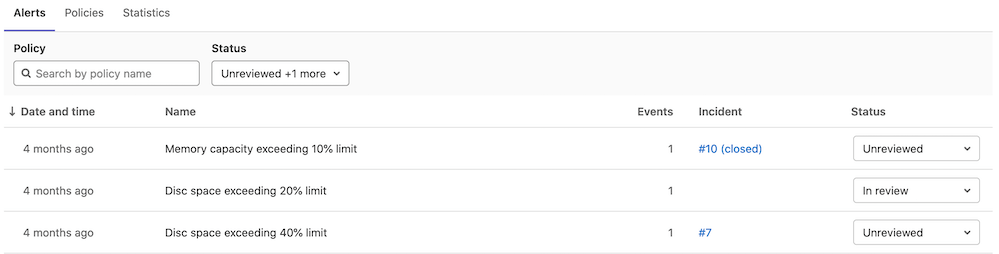
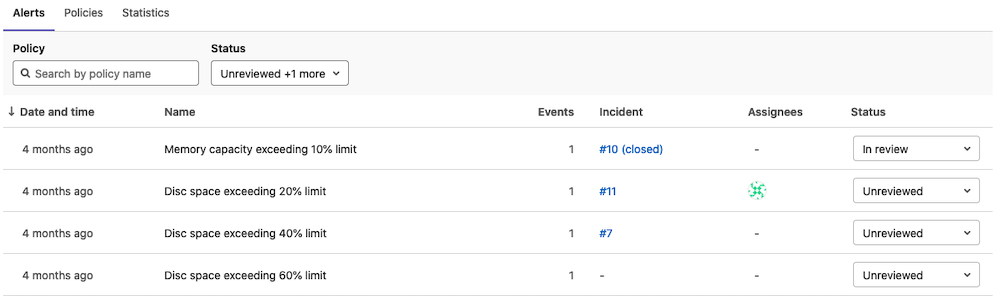
Add assignee column to threat alert list
- add dashes if not issue is assigned
- add dashes if no one is assigned
- update tests

Changelog: added

diff --git a/ee/spec/frontend/threat_monitoring/components/alerts/alerts_list_spec.js b/ee/spec/frontend/threat_monitoring/components/alerts/alerts_list_spec.js
@@ -1,12 +1,12 @@
 import { GlIntersectionObserver, GlSkeletonLoading } from '@gitlab/ui';
-import { createLocalVue, mount } from '@vue/test-utils';
+import { createLocalVue } from '@vue/test-utils';
 import VueApollo from 'vue-apollo';
 import AlertFilters from 'ee/threat_monitoring/components/alerts/alert_filters.vue';
 import AlertStatus from 'ee/threat_monitoring/components/alerts/alert_status.vue';
 import AlertsList from 'ee/threat_monitoring/components/alerts/alerts_list.vue';
 import { DEFAULT_FILTERS } from 'ee/threat_monitoring/components/alerts/constants';
 import createMockApollo from 'helpers/mock_apollo_helper';
-import { extendedWrapper } from 'helpers/vue_test_utils_helper';
+import { mountExtended } from 'helpers/vue_test_utils_helper';
 import getAlertsQuery from '~/graphql_shared/queries/get_alerts.query.graphql';
 import { defaultQuerySpy, emptyQuerySpy, loadingQuerySpy } from '../../mocks/mock_apollo';
 import { mockAlerts, mockPageInfo } from '../../mocks/mock_data';
@@ -38,6 +38,8 @@ describe('AlertsList component', () => {
   };
 
   const findAlertFilters = () => wrapper.findComponent(AlertFilters);
+  const findAssigneeColumn = () => wrapper.findByTestId('threat-alerts-assignee');
+  const findAssigneeColumnAt = (id) => wrapper.findAllByTestId('threat-alerts-assignee').at(id);
   const findUnconfiguredAlert = () => wrapper.findByTestId('threat-alerts-unconfigured');
   const findErrorAlert = () => wrapper.findByTestId('threat-alerts-error');
   const findStartedAtColumn = () => wrapper.findByTestId('threat-alerts-started-at');
@@ -71,24 +73,22 @@ describe('AlertsList component', () => {
       };
     }
 
-    wrapper = extendedWrapper(
-      mount(AlertsList, {
-        propsData: defaultProps,
-        provide: {
-          documentationPath: '#',
-          projectPath: DEFAULT_PROJECT_PATH,
-        },
-        stubs: {
-          AlertStatus: true,
-          AlertFilters: true,
-          GlAlert: true,
-          GlLoadingIcon: true,
-          GlIntersectionObserver: true,
-          ...stubs,
-        },
-        ...apolloOptions,
-      }),
-    );
+    wrapper = mountExtended(AlertsList, {
+      propsData: defaultProps,
+      provide: {
+        documentationPath: '#',
+        projectPath: DEFAULT_PROJECT_PATH,
+      },
+      stubs: {
+        AlertStatus: true,
+        AlertFilters: true,
+        GlAlert: true,
+        GlLoadingIcon: true,
+        GlIntersectionObserver: true,
+        ...stubs,
+      },
+      ...apolloOptions,
+    });
   };
 
   afterEach(() => {
@@ -126,12 +126,16 @@ describe('AlertsList component', () => {
       expect(wrapper.vm.filters).toEqual(newFilters);
     });
 
-    it('does show all columns', () => {
-      expect(findStartedAtColumn().exists()).toBe(true);
-      expect(findIdColumn().exists()).toBe(true);
-      expect(findEventCountColumn().exists()).toBe(true);
-      expect(findIssueColumn().exists()).toBe(true);
-      expect(findStatusColumn().exists()).toBe(true);
+    it.each`
+      column          | findColumn
+      ${'startedAt'}  | ${findStartedAtColumn}
+      ${'id'}         | ${findIdColumn}
+      ${'eventCount'} | ${findEventCountColumn}
+      ${'issue'}      | ${findIssueColumn}
+      ${'assignee'}   | ${findAssigneeColumn}
+      ${'status'}     | ${findStatusColumn}
+    `('does show the $column column', ({ findColumn }) => {
+      expect(findColumn().exists()).toBe(true);
     });
 
     it('does not show the empty state', () => {
@@ -176,8 +180,8 @@ describe('AlertsList component', () => {
     });
 
     describe('issue column', () => {
-      it('only displays text when an issue is created', () => {
-        expect(wrapper.findAllByTestId('threat-alerts-issue').length).toBe(2);
+      it('displays a "-" for an alert without an issue', () => {
+        expect(findIssueColumnAt(3).text()).toBe('-');
       });
 
       it.each`
@@ -186,7 +190,7 @@ describe('AlertsList component', () => {
         ${'when an issue is created and is closed'} | ${1} | ${'#6 (closed)'} | ${'/#/-/issues/incident/6'}
       `('displays the correct text $description', ({ id, text, link }) => {
         expect(findIssueColumnAt(id).text()).toBe(text);
-        expect(findIssueColumnAt(id).attributes('href')).toBe(link);
+        expect(findIssueColumnAt(id).find('a').attributes('href')).toBe(link);
       });
 
       describe('gon.relative_url_root', () => {
@@ -199,8 +203,32 @@ describe('AlertsList component', () => {
         });
 
         it('creates the correct href when the gon.relative_url_root is set', () => {
-          expect(findIssueColumnAt(0).attributes('href')).toBe('/test/#/-/issues/incident/5');
+          expect(findIssueColumnAt(0).find('a').attributes('href')).toBe(
+            '/test/#/-/issues/incident/5',
+          );
         });
+      });
+    });
+
+    describe('assignee column', () => {
+      it('displays an avatar for an alert with an assignee', () => {
+        const index = 0;
+        const { name, avatarUrl, webUrl } = mockAlerts[index].assignees.nodes[0];
+        expect(findAssigneeColumnAt(index).find('a')).toBeDefined();
+        expect(findAssigneeColumnAt(index).find('a').attributes()).toMatchObject({
+          href: webUrl,
+          target: '_blank',
+          title: name,
+        });
+        expect(findAssigneeColumnAt(index).find('img')).toBeDefined();
+        expect(findAssigneeColumnAt(index).find('img').attributes()).toMatchObject({
+          src: avatarUrl,
+          label: name,
+        });
+      });
+
+      it('displays a "-" for an unassigned alert', () => {
+        expect(findAssigneeColumnAt(1).text()).toBe('-');
       });
     });
   });

diff --git a/ee/app/assets/javascripts/threat_monitoring/components/alerts/alerts_list.vue b/ee/app/assets/javascripts/threat_monitoring/components/alerts/alerts_list.vue
@@ -1,6 +1,9 @@
 <script>
 import {
   GlAlert,
+  GlAvatar,
+  GlAvatarLink,
+  GlAvatarsInline,
   GlIntersectionObserver,
   GlLoadingIcon,
   GlTable,
@@ -39,6 +42,9 @@ export default {
     AlertStatus,
     AlertFilters,
     GlAlert,
+    GlAvatar,
+    GlAvatarLink,
+    GlAvatarsInline,
     GlIntersectionObserver,
     GlLink,
     GlLoadingIcon,
@@ -150,6 +156,9 @@ export default {
     handleStatusUpdate() {
       this.$apollo.queries.alerts.refetch();
     },
+    hasAssignees(assignees) {
+      return Boolean(assignees.nodes?.length);
+    },
     alertDetailsUrl({ iid }) {
       return joinPaths(window.location.pathname, 'alerts', iid);
     },
@@ -220,15 +229,45 @@ export default {
       </template>
 
       <template #cell(issue)="{ item }">
-        <gl-link
-          v-if="item.issue"
-          v-gl-tooltip
-          :title="item.issue.title"
-          data-testid="threat-alerts-issue"
-          :href="getIssueMeta(item).link"
-        >
-          #{{ item.issue.iid }} {{ getIssueMeta(item).state }}
-        </gl-link>
+        <div data-testid="threat-alerts-issue">
+          <gl-link
+            v-if="item.issue"
+            v-gl-tooltip
+            :title="item.issue.title"
+            :href="getIssueMeta(item).link"
+          >
+            #{{ item.issue.iid }} {{ getIssueMeta(item).state }}
+          </gl-link>
+          <span v-else>-</span>
+        </div>
+      </template>
+
+      <template #cell(assignees)="{ item }">
+        <div class="gl-display-flex" data-testid="threat-alerts-assignee">
+          <gl-avatars-inline
+            v-if="hasAssignees(item.assignees)"
+            data-testid="assigneesField"
+            :avatars="item.assignees.nodes"
+            :collapsed="true"
+            :max-visible="4"
+            :avatar-size="24"
+            badge-tooltip-prop="name"
+            :badge-tooltip-max-chars="100"
+          >
+            <template #avatar="{ avatar }">
+              <gl-avatar-link
+                :key="avatar.username"
+                v-gl-tooltip
+                target="_blank"
+                :href="avatar.webUrl"
+                :title="avatar.name"
+              >
+                <gl-avatar :src="avatar.avatarUrl" :label="avatar.name" :size="24" />
+              </gl-avatar-link>
+            </template>
+          </gl-avatars-inline>
+          <span v-else class="gl-ml-3">-</span>
+        </div>
       </template>
 
       <template #cell(status)="{ item }">

diff --git a/ee/spec/frontend/threat_monitoring/mocks/mock_data.js b/ee/spec/frontend/threat_monitoring/mocks/mock_data.js
@@ -94,7 +94,16 @@ export const formattedMockNetworkPolicyStatisticsResponse = {
 export const mockAlerts = [
   {
     iid: '01',
-    assignees: { nodes: [] },
+    assignees: {
+      nodes: [
+        {
+          name: 'Administrator',
+          username: 'root',
+          avatarUrl: '/test-avatar-url',
+          webUrl: 'https://gitlab:3443/root',
+        },
+      ],
+    },
     eventCount: '1',
     issueIid: null,
     issue: { iid: '5', state: 'opened', title: 'Issue 01' },

diff --git a/ee/app/assets/javascripts/threat_monitoring/components/alerts/constants.js b/ee/app/assets/javascripts/threat_monitoring/components/alerts/constants.js
@@ -47,6 +47,11 @@ export const FIELDS = [
     thClass: 'gl-bg-white! gl-w-15p',
   },
   {
+    key: 'assignees',
+    label: __('Assignees'),
+    thClass: 'gl-bg-white! gl-w-10p gl-pointer-events-none',
+  },
+  {
     key: 'status',
     label: s__('ThreatMonitoring|Status'),
     thAttr: { 'data-testid': 'threat-alerts-status-header' },
